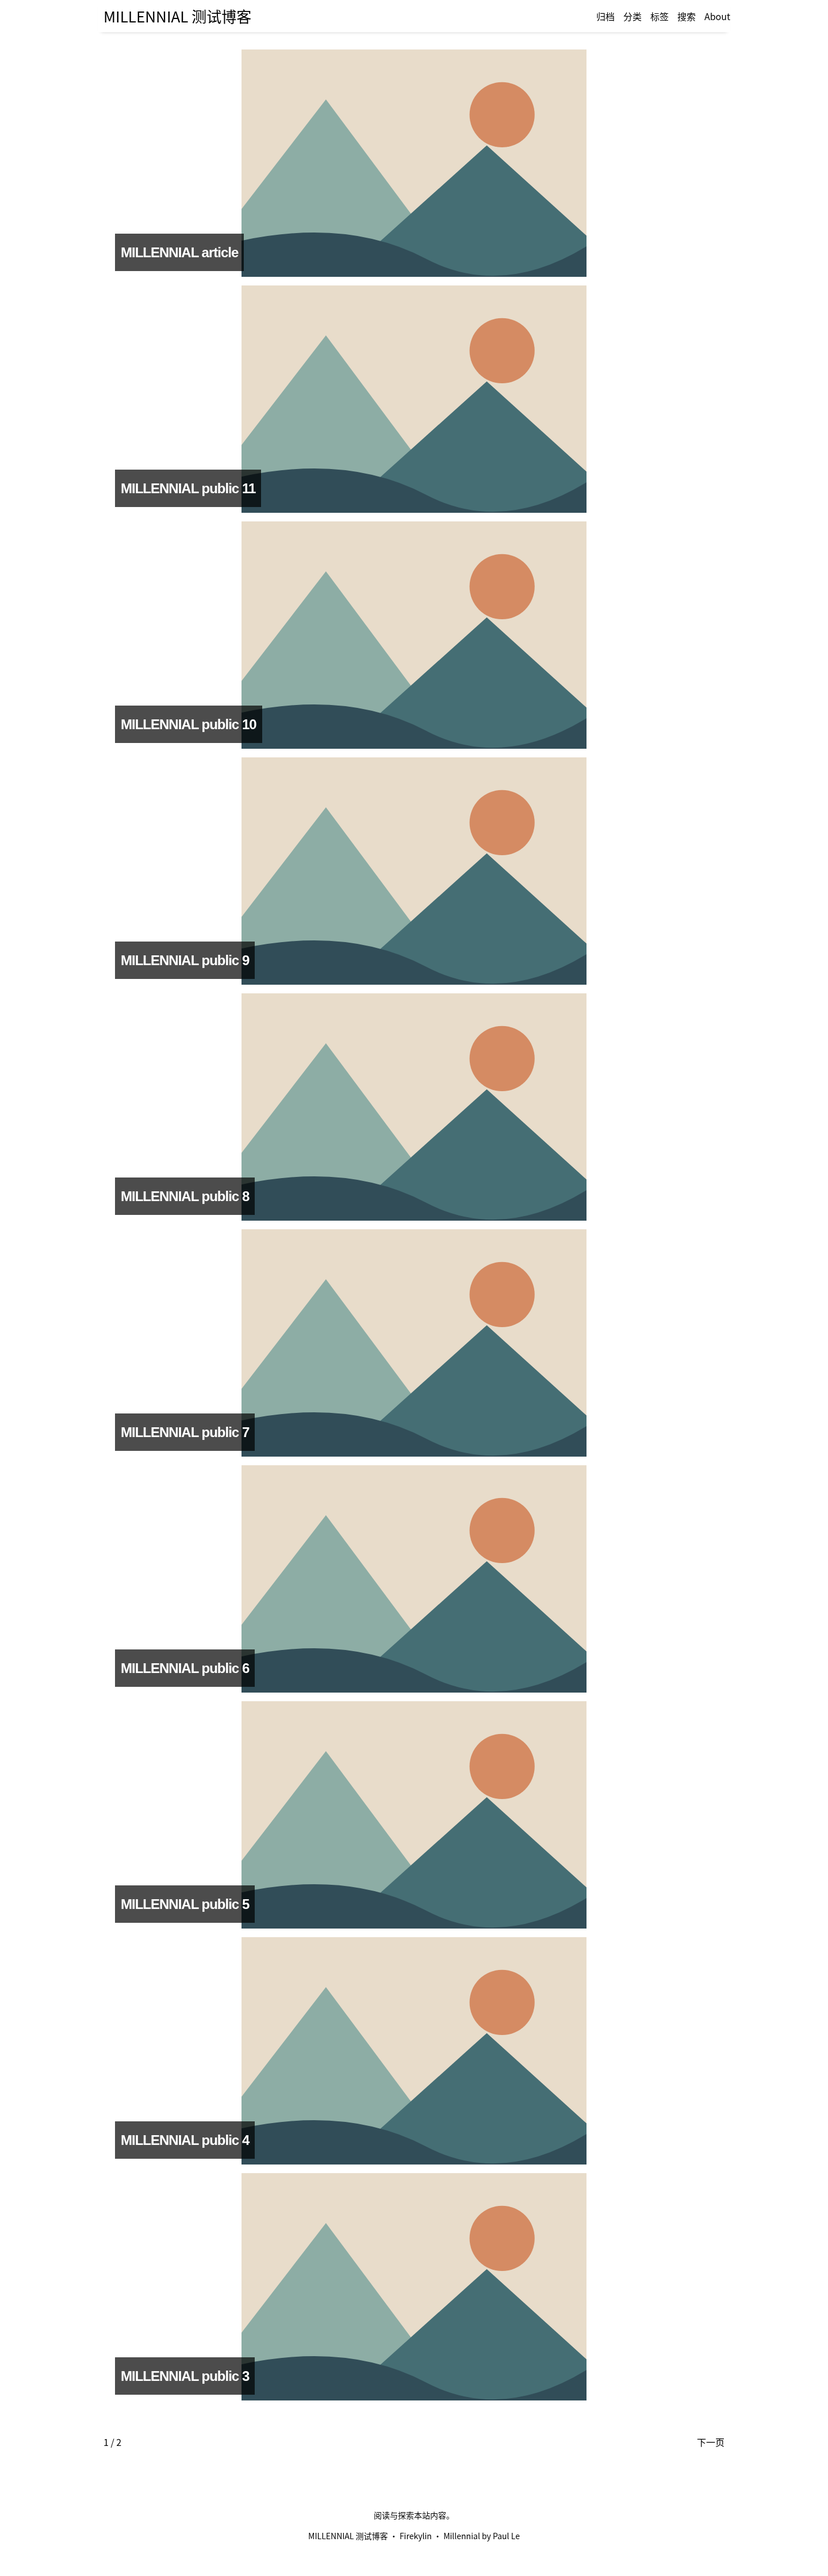
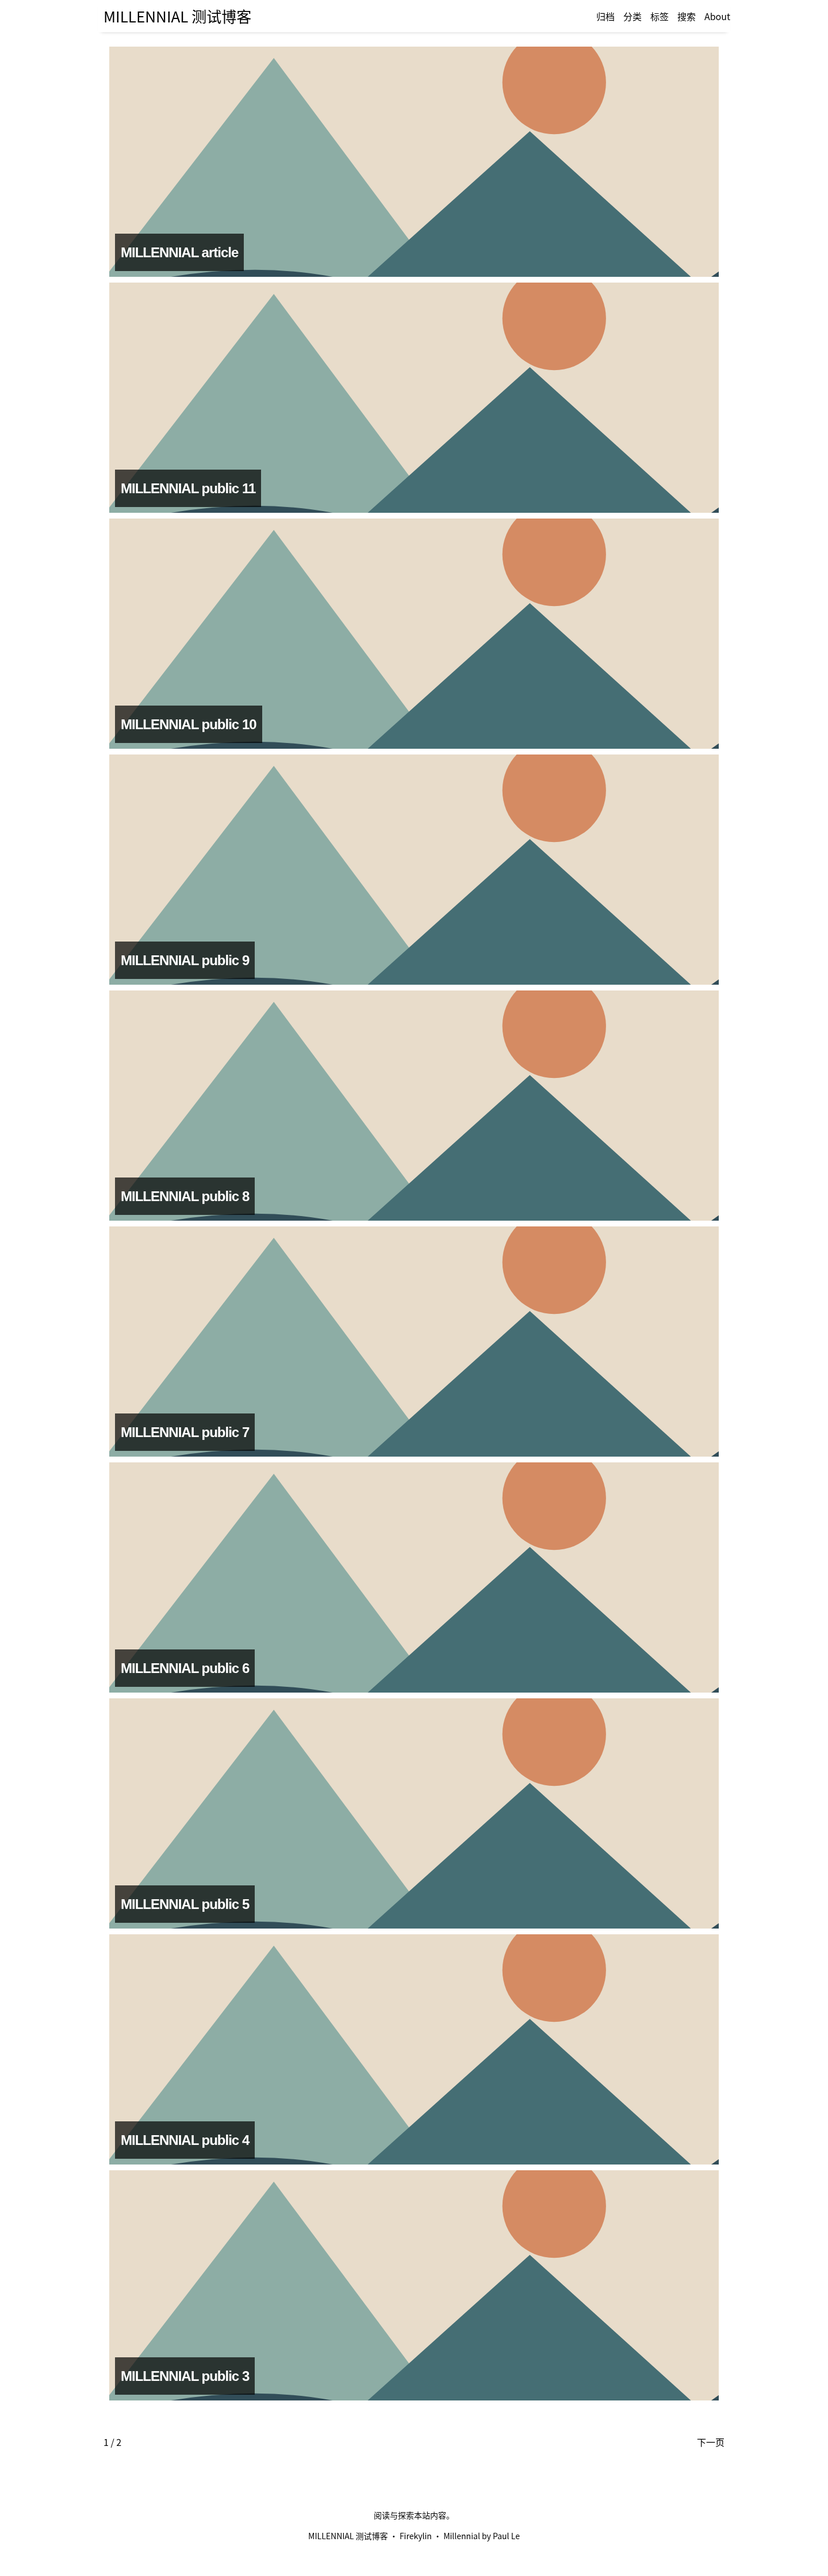
fix: preserve responsive image and navigation geometry

diff --git a/packages/millennial/res/css/theme.css b/packages/millennial/res/css/theme.css
@@ -675,3 +675,5 @@ pre code {
 .featured-post>h2{position:absolute;bottom:0}
 
 .site-header{position:static;height:auto}.content-wrapper{padding-top:20px}
+
+.featured-post>.native-cover{max-width:100%;margin:0}
